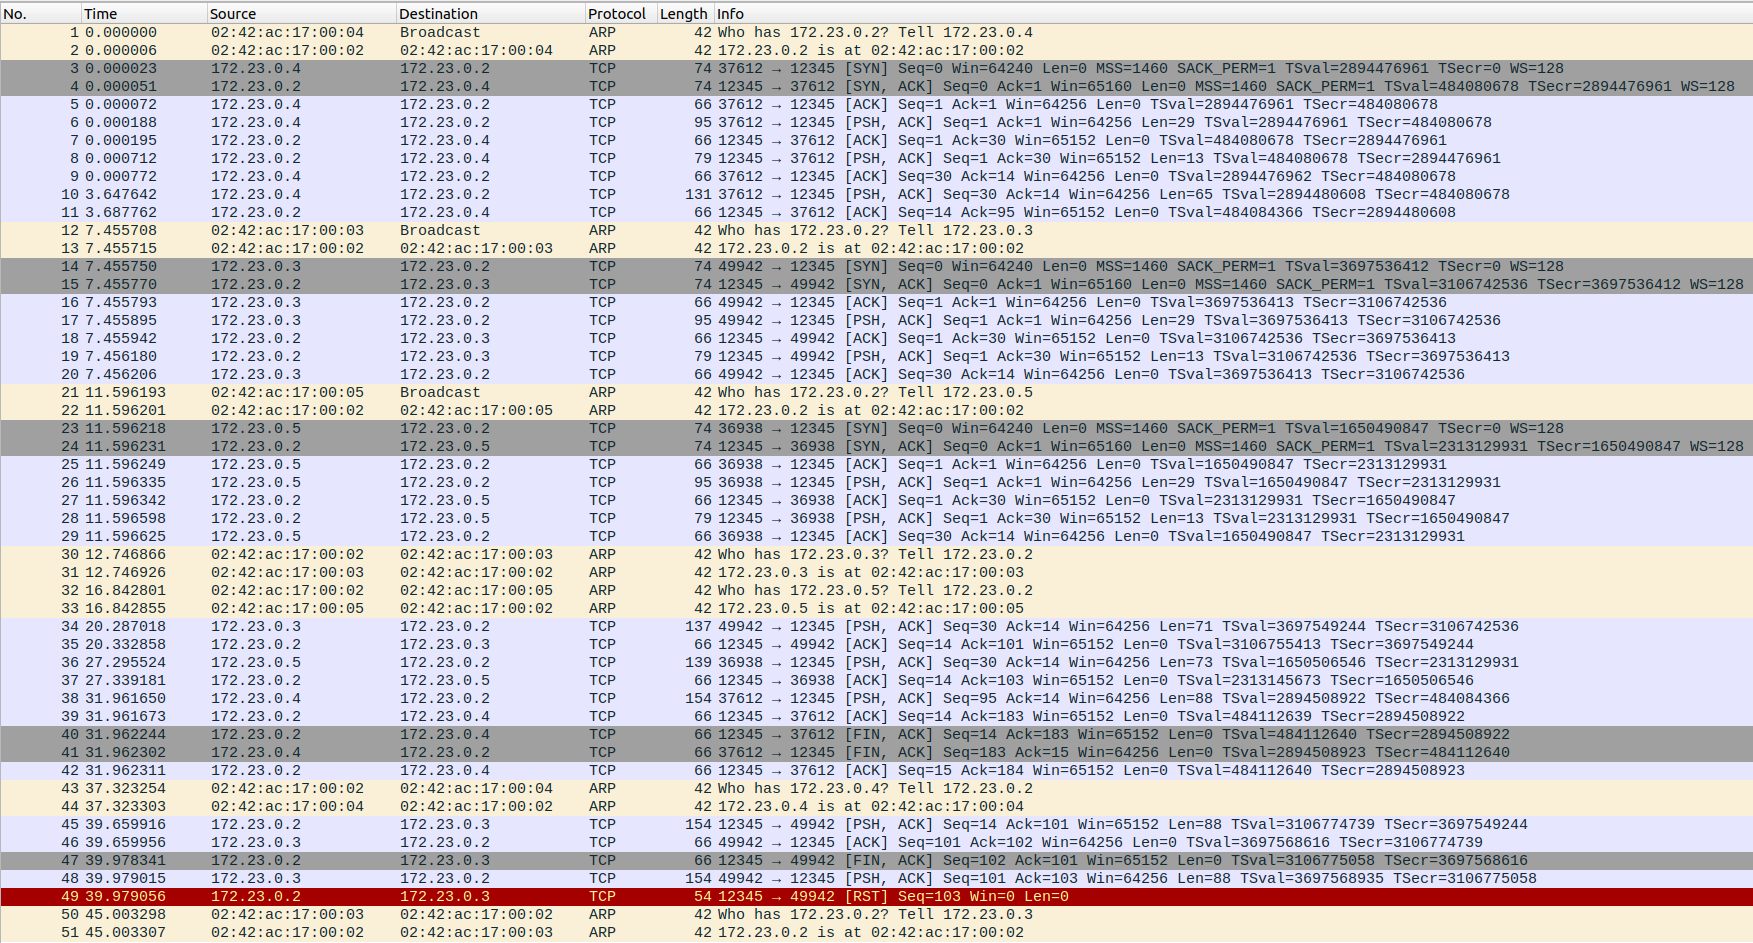
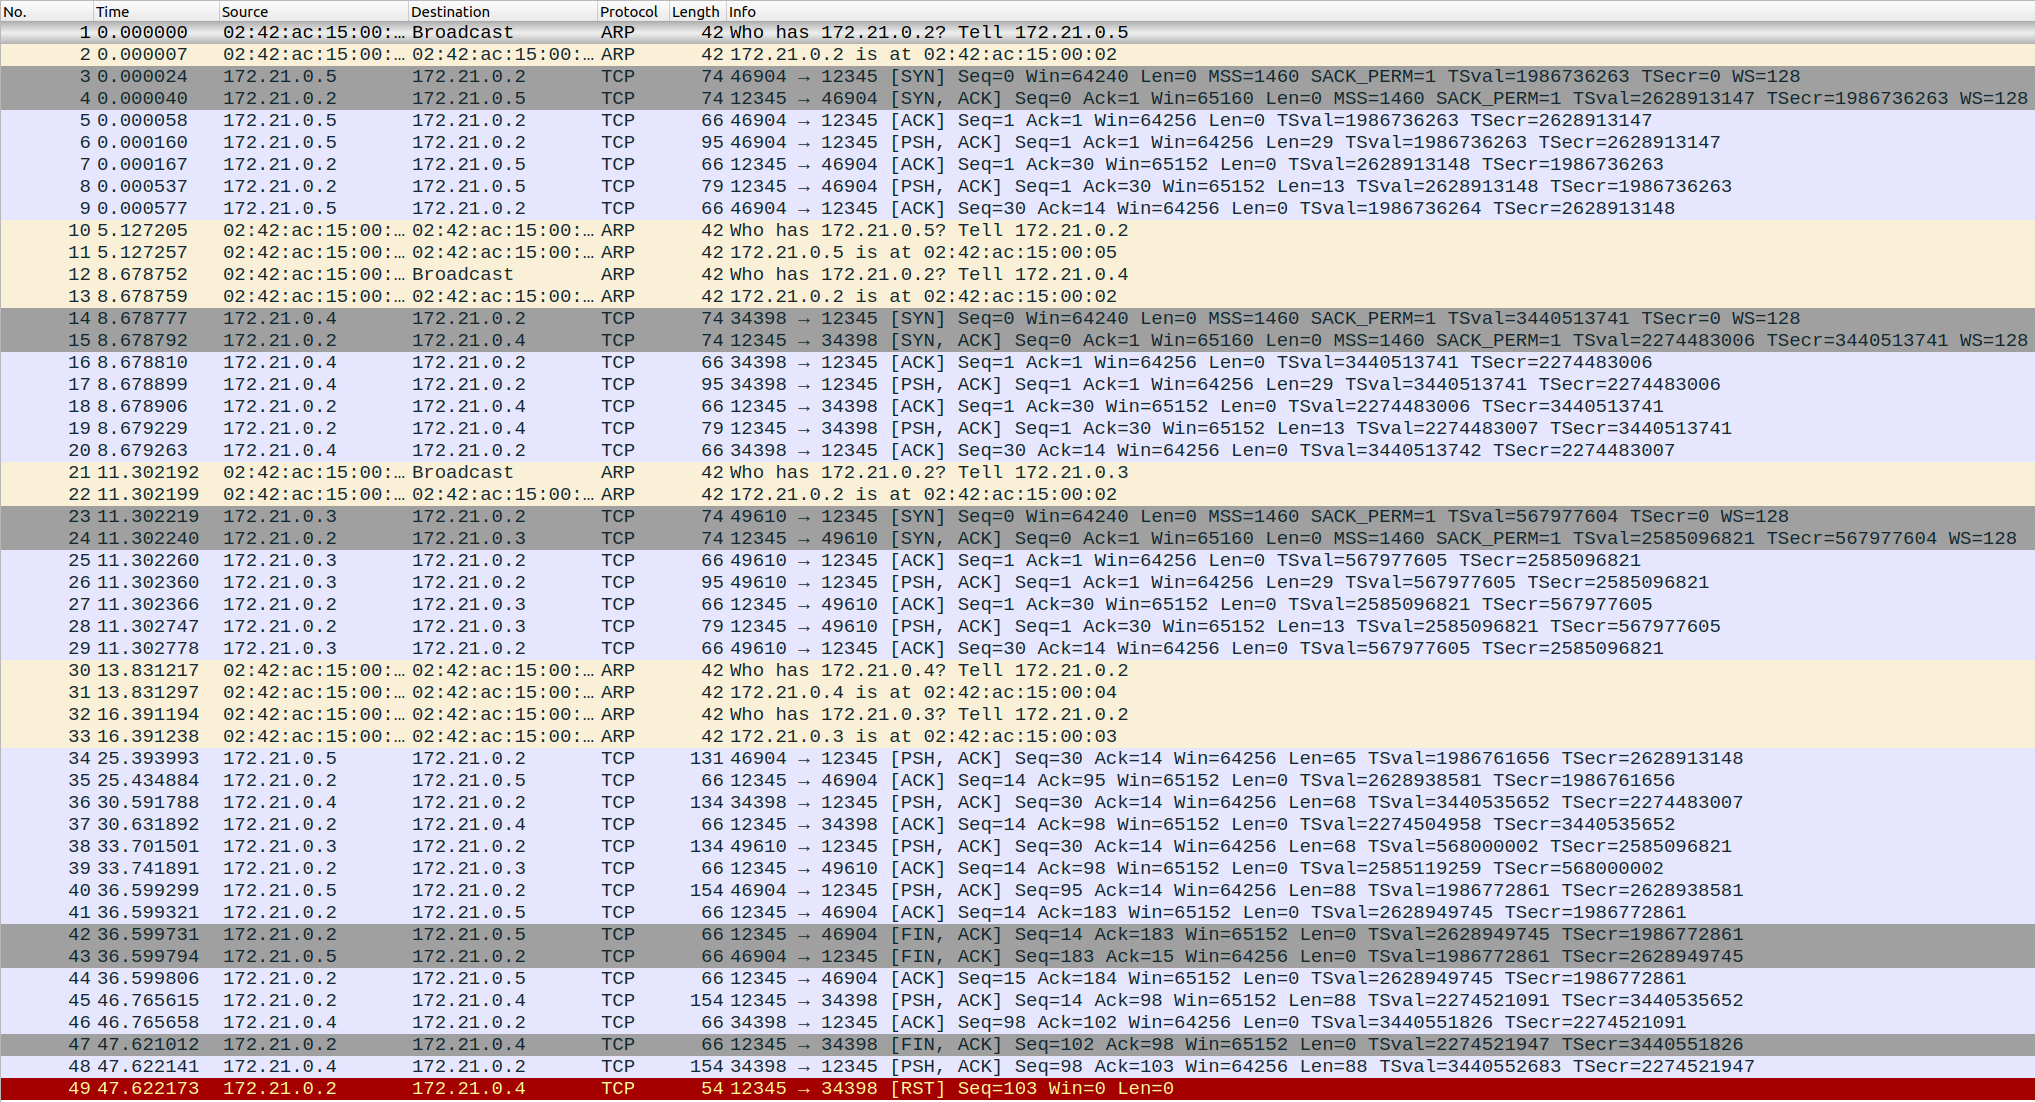
encrypting test

diff --git a/projekt/encryption_test.py b/projekt/encryption_test.py
@@ -1,0 +1,16 @@
+from src.crypto import Crypto
+
+with open("key.bin", 'rb') as f:
+    key = f.read()
+
[1 lines of base64/hex data omitted]
+data = bytes.fromhex(data)
+
+iv = data[:16]
+ciphertext = data[16:]
+
+crypto = Crypto(key)
+
+decrypted_message = crypto.decrypt(ciphertext, iv)
+
+print(decrypted_message.decode('utf-8'))

diff --git a/projekt/tcpdump.md b/projekt/tcpdump.md
@@ -1,74 +1,68 @@
 Zrzut z działania systemu:
 
 ```bash
-server-1   | [2025-01-17 19:53:16,312] INFO: Server started on 0.0.0.0:12345
-client2-1  | Client server:12345 started
-client3-1  | Client server:12345 started
-client1-1  | Client server:12345 started
-server-1   | Server> help
-server-1   | Available commands:
-server-1   |   list - List connected clients
-server-1   |   disconnect <client_number> - Disconnect a client
-server-1   |   help - Show this help
-server-1   |   exit - Stop the server
-server-1   | Server> list
-server-1   | No connected clients
-client1-1  | Client> help
-client1-1  | Available commands:
-client1-1  |   connect - Connect to server
-client1-1  |   disconnect - Disconnect from server
-client1-1  |   send <message> - Send encrypted message
-client1-1  |   help - Show this help
-client1-1  |   exit - Exit client
-client1-1  | Client> send test
-client1-1  | Not connected
-client1-1  | Client> connect
-server-1   | Server> [2025-01-17 19:54:35,675] INFO: New connection from ('172.23.0.4', 37612)
-client1-1  | [2025-01-17 19:54:35,675] INFO: Connected to server:12345
-client1-1  | Client> [2025-01-17 19:54:35,675] INFO: Key exchange completed
-server-1   | [2025-01-17 19:54:35,675] INFO: Key exchange completed with Client(('172.23.0.4', 37612))
-client1-1  | send test
-server-1   | [2025-01-17 19:54:39,322] INFO: Message from Client(('172.23.0.4', 37612)): test
-client2-1  | Client> connect
-server-1   | [2025-01-17 19:54:43,130] INFO: New connection from ('172.23.0.3', 49942)
-server-1   | [2025-01-17 19:54:43,131] INFO: Key exchange completed with Client(('172.23.0.3', 49942))
-client2-1  | [2025-01-17 19:54:43,131] INFO: Key exchange completed
-client2-1  | [2025-01-17 19:54:43,131] INFO: Connected to server:12345
-client3-1  | Client> connect
-server-1   | [2025-01-17 19:54:47,271] INFO: New connection from ('172.23.0.5', 36938)
-server-1   | [2025-01-17 19:54:47,271] INFO: Key exchange completed with Client(('172.23.0.5', 36938))
-client3-1  | [2025-01-17 19:54:47,271] INFO: Connected to server:12345
-client3-1  | Client> [2025-01-17 19:54:47,271] INFO: Key exchange completed
-server-1   | list
-server-1   | 1. Client(('172.23.0.4', 37612))
-server-1   | 2. Client(('172.23.0.3', 49942))
-server-1   | 3. Client(('172.23.0.5', 36938))
-client2-1  | Client> send client two
-server-1   | Server> [2025-01-17 19:54:55,962] INFO: Message from Client(('172.23.0.3', 49942)): client two
-client3-1  | send client three
-server-1   | [2025-01-17 19:55:02,970] INFO: Message from Client(('172.23.0.5', 36938)): client three
-client1-1  | Client> disconnect
-server-1   | [2025-01-17 19:55:07,636] INFO: Received EndSession from Client(('172.23.0.4', 37612)): Client initiated disconnect
-server-1   | [2025-01-17 19:55:07,637] INFO: Disconnecting Client(('172.23.0.4', 37612))
-client1-1  | [2025-01-17 19:55:07,637] ERROR: Connection closed by server
-client1-1  | [2025-01-17 19:55:07,637] WARNING: Not connected
-client1-1  | client receive loop ended
-client1-1  | [2025-01-17 19:55:07,637] INFO: Client disconnected
-server-1   | list
-server-1   | 1. Client(('172.23.0.3', 49942))
-server-1   | 2. Client(('172.23.0.5', 36938))
-server-1   | Server> disconnect 1
-server-1   | [2025-01-17 19:55:15,334] INFO: Disconnecting Client(('172.23.0.3', 49942))
-client2-1  | Client> Received message: Server initiated disconnect
-client2-1  | [2025-01-17 19:55:15,653] ERROR: Connection closed by server
-client2-1  | [2025-01-17 19:55:15,654] INFO: Client disconnected
-client2-1  | client receive loop ended
-server-1   | Server> exit
-server-1   | [2025-01-17 19:56:14,771] INFO: Disconnecting Client(('172.23.0.5', 36938))
-client3-1  | Client> [2025-01-17 19:56:14,771] ERROR: Connection closed by server
-client3-1  | [2025-01-17 19:56:14,772] INFO: Client disconnected
-client3-1  | client receive loop ended
-server-1 exited with code 0
+z34_server   | [2025-01-17 21:19:06,711] INFO: Server started on 0.0.0.0:12345
+z34_client3  | Client server:12345 started
+z34_client1  | Client server:12345 started
+z34_client2  | Client server:12345 started
+z34_client1  | Client> help
+z34_client1  | Available commands:
+z34_client1  |   connect - Connect to server
+z34_client1  |   disconnect - Disconnect from server
+z34_client1  |   send <message> - Send encrypted message
+z34_client1  |   help - Show this help
+z34_client1  |   exit - Exit client
+z34_client1  | Client> send test
+z34_client1  | Not connected
+z34_client1  | Client> connect
+z34_client1  | [2025-01-17 21:21:08,806] INFO: Connected to server:12345
+z34_server   | Server> [2025-01-17 21:21:08,806] INFO: New connection from ('172.21.0.5', 46904)
+z34_server   | [2025-01-17 21:21:08,807] INFO: Key exchange completed with Client(('172.21.0.5', 46904))
+z34_client1  | Client> [2025-01-17 21:21:08,807] INFO: Key exchange completed
+z34_server   | list
+z34_server   | 1. Client(('172.21.0.5', 46904))
+z34_client2  | Client> connect
+z34_server   | Server> [2025-01-17 21:21:17,485] INFO: New connection from ('172.21.0.4', 34398)
+z34_server   | [2025-01-17 21:21:17,485] INFO: Key exchange completed with Client(('172.21.0.4', 34398))
+z34_client2  | [2025-01-17 21:21:17,485] INFO: Connected to server:12345
+z34_client2  | Client> [2025-01-17 21:21:17,485] INFO: Key exchange completed
+z34_client3  | Client> connect
+z34_server   | [2025-01-17 21:21:20,108] INFO: New connection from ('172.21.0.3', 49610)
+z34_client3  | [2025-01-17 21:21:20,109] INFO: Connected to server:12345
+z34_server   | [2025-01-17 21:21:20,109] INFO: Key exchange completed with Client(('172.21.0.3', 49610))
+z34_client3  | Client> [2025-01-17 21:21:20,109] INFO: Key exchange completed
+z34_server   | list
+z34_server   | 1. Client(('172.21.0.5', 46904))
+z34_server   | 2. Client(('172.21.0.4', 34398))
+z34_server   | 3. Client(('172.21.0.3', 49610))
+z34_client1  | send test
+z34_server   | Server> [2025-01-17 21:21:34,200] INFO: Message from Client(('172.21.0.5', 46904)): test
+z34_client2  | send client2
+z34_server   | [2025-01-17 21:21:39,398] INFO: Message from Client(('172.21.0.4', 34398)): client2
+z34_client3  | send client3
+z34_server   | [2025-01-17 21:21:42,508] INFO: Message from Client(('172.21.0.3', 49610)): client3
+z34_client1  | Client> disconnect
+z34_server   | [2025-01-17 21:21:45,405] INFO: Received EndSession from Client(('172.21.0.5', 46904)): Client initiated disconnect
+z34_server   | [2025-01-17 21:21:45,406] INFO: Disconnecting Client(('172.21.0.5', 46904))
+z34_client1  | [2025-01-17 21:21:45,406] ERROR: Connection closed by server
+z34_client1  | [2025-01-17 21:21:45,406] WARNING: Not connected
+z34_client1  | client receive loop ended
+z34_client1  | [2025-01-17 21:21:45,406] INFO: Client disconnected
+z34_server   | list       
+z34_server   | 1. Client(('172.21.0.4', 34398))
+z34_server   | 2. Client(('172.21.0.3', 49610))
+z34_server   | Server> disconnect 1
+z34_server   | [2025-01-17 21:21:55,572] INFO: Disconnecting Client(('172.21.0.4', 34398))
+z34_client2  | Client> Received message: Server initiated disconnect
+z34_client2  | [2025-01-17 21:21:56,427] ERROR: Connection closed by server
+z34_client2  | [2025-01-17 21:21:56,428] INFO: Client disconnected
+z34_client2  | client receive loop ended
+z34_server   | Server> exit
+z34_server   | [2025-01-17 21:22:28,495] INFO: Disconnecting Client(('172.21.0.3', 49610))
+z34_client3  | Client> [2025-01-17 21:22:28,495] ERROR: Connection closed by server
+z34_client3  | [2025-01-17 21:22:28,496] INFO: Client disconnected
+z34_client3  | client receive loop ended
+z34_server exited with code 0
 ```
 
 

diff --git a/projekt/analysis.md b/projekt/analysis.md
@@ -1,0 +1,35 @@
+Znając przyjętą przez nas strukturę wiadomości możemy zobaczyć co znajduje się w pakietach
+Struktura każdej wiadomości to: typ, długość, ładunek.
+
+![ClientHello](clienthello.png)
+dane: 01000000180000000000000002000000000000000b0000000000000008
+01000000 (1): typ wiadomości - ClientHello
+1800000000000000 (24): długość
+0200000000000000 (2): `g` - generator
+0b00000000000000 (11): `p` - liczba pierwsza
+08 (8): `A` - klucz publiczny klienta
+
+![ServerHello](serverhello.png)
+dane: 02000000080000000000000003
+02000000 (2): typ wiadomości - ServerHello
+0800000000000000 (8): długość
+03 (3): `B` - klucz publiczny serwera
+
+![EncryptedMessage](encryptedmessage.png)
+dane: 030000003c0000001000000024f3165dfc9da1161b871ecbc01f5c965f54594a1fbceaf42391d8425727ab9598c03cfe0f45914472ff9822cc8af973079db6c84f
+03000000 (3): typ wiadomości - EncryptedMessage
+3c00000010000000 (60): długość
+24f3165dfc9da1161b871ecbc01f5c965f54594a1fbceaf42391d8425727ab9598c03cfe0f45914472ff9822cc8af973079db6c84f - zaszyfrowana wiadomość
+
+![EndSession](endsession.png)
+dane: 0400000053000000100000003b8bf4ce9189c396c7856cf62b5604f08af3535d5ddc7387e378b4862ca935395861cef2697feceeada1d05d6cb75cbf2d14b53b4b995d1ce5c6fd29c5a13d307a4bf15cd808dab5cb414779
+04000000 (4): typ wiadomości - EndSession
+5300000010000000 (83): długość
+3b8bf4ce9189c396c7856cf62b5604f08af3535d5ddc7387e378b4862ca935395861cef2697feceeada1d05d6cb75cbf2d14b53b4b995d1ce5c6fd29c5a13d307a4bf15cd808dab5cb414779 - zaszyfrowany powód zakończenia sesji
+
+
+
+
+
+odszyfrowywanie ręczne:
+![alt text](image.png)
